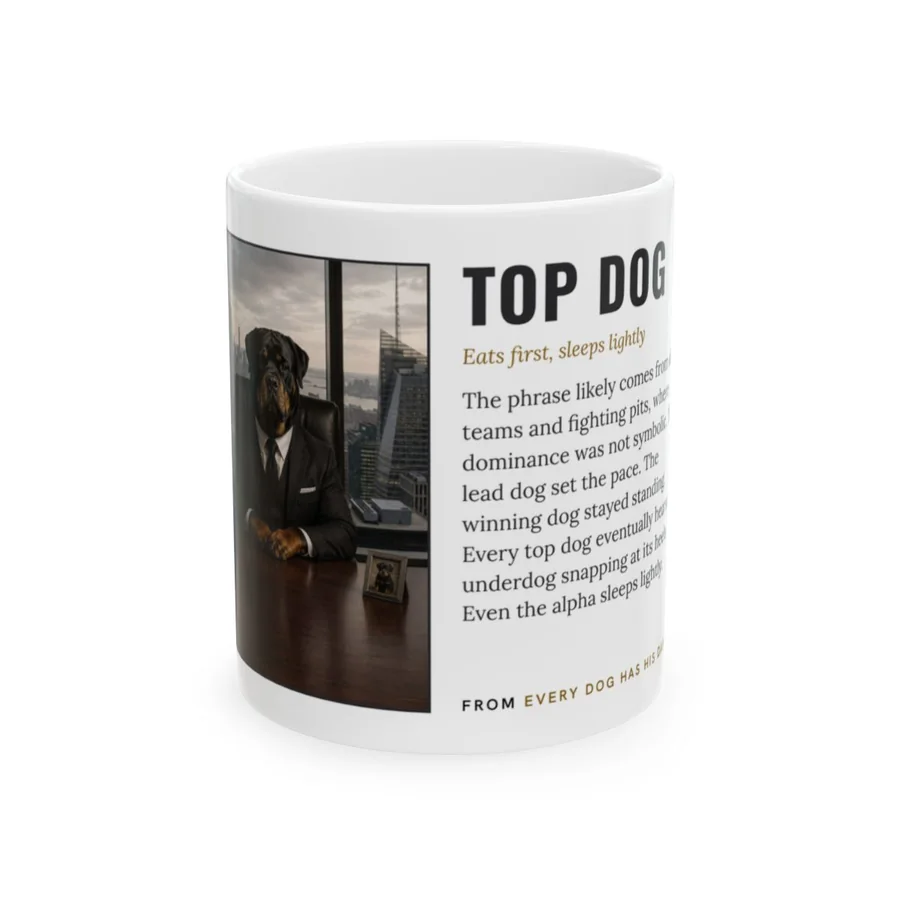
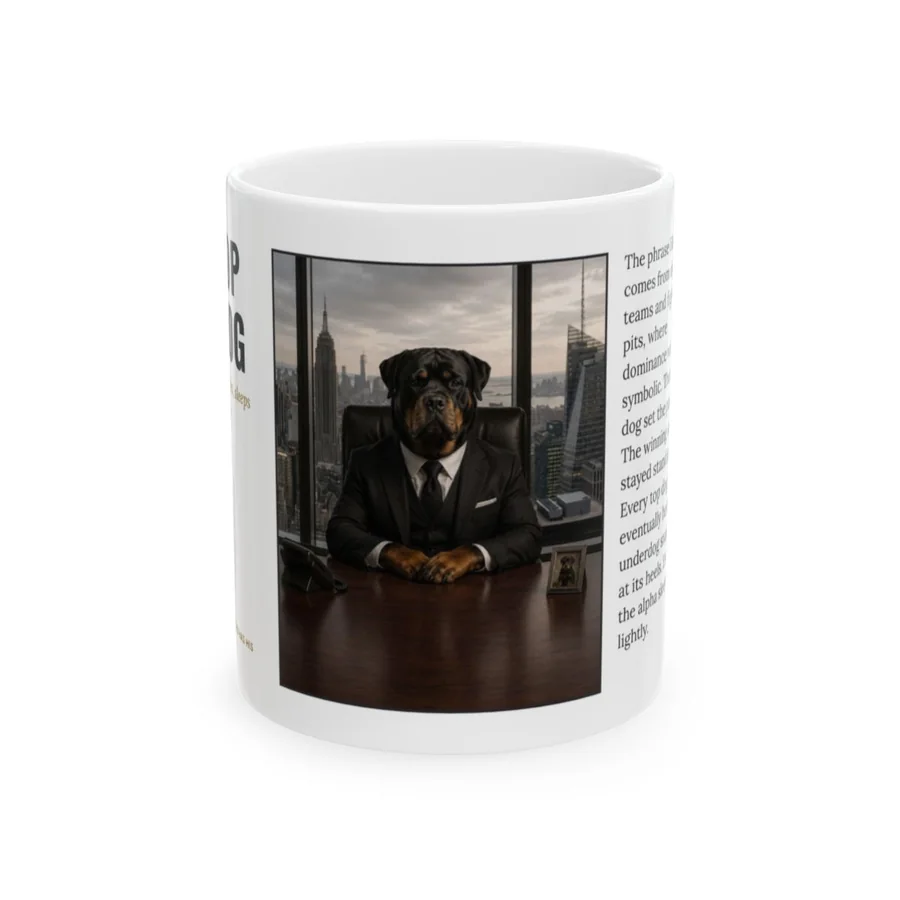
Use new Printify mug mockups; add flat wrap image on idiom pages
Claude-Session: https://claude.ai/code/session_01PgduKiTbNW4EBhNdA6zBJF

Changed region(s): [[0.2489, 0.2489, 0.7467, 0.8089]]

diff --git a/site/i/crazy-cat-lady/index.html b/site/i/crazy-cat-lady/index.html
@@ -66,6 +66,6 @@ h2{font:800 clamp(24px,4vw,32px)/1.1 Spectral,serif;margin:44px 0 14px}
 <p class="note" style="font:14px/1.5 Hanken,sans-serif;color:var(--soft)">More books</p><div class="mini"><a href="/books/every-dog-has-his-day/"><img src="/books/every-dog-has-his-day/cover.webp" alt="Every Dog Has His Day" loading="lazy"><span>Every Dog Has His Day</span></a><a href="/books/dog-breeds/"><img src="/books/dog-breeds/cover.webp" alt="Dog Breeds" loading="lazy"><span>Dog Breeds</span></a><a href="/books/cat-breeds/"><img src="/books/cat-breeds/cover.webp" alt="Cat Breeds" loading="lazy"><span>Cat Breeds</span></a></div><div class="cta"><a class="btn" href="/books/">All books</a></div>
 <h2 id="merch">Merch with this design</h2>
 <div class="mgrid"><a class="mc" href="https://rainingcad.etsy.com/?search_query=Crazy+Cat+Lady+shirt" target="_blank" rel="noopener"><img src="/i/img/crazy-cat-lady-tee-m.webp" width="900" height="900" alt="Crazy Cat Lady tee" loading="lazy"><b>Crazy Cat Lady T-shirt</b><span>Shop on Etsy</span></a><a class="mc" href="https://rainingcad.etsy.com/?search_query=Crazy+Cat+Lady+mug" target="_blank" rel="noopener"><img src="/i/img/crazy-cat-lady-mug-m.webp" width="900" height="900" alt="Crazy Cat Lady mug" loading="lazy"><b>Crazy Cat Lady Mug</b><span>11 oz or 15 oz &middot; Shop on Etsy</span></a></div>
-<p class="note" style="font:14px/1.5 Hanken,sans-serif;color:var(--soft)">More from the shop</p><div class="chips"><a href="/merch/t-shirts/">T-shirts</a><a href="/merch/mugs/">Mugs</a><a href="/merch/dogs/">Dogs</a><a href="/merch/">All merch</a></div>
+<p class="note" style="font:14px/1.5 Hanken,sans-serif;color:var(--soft)">The full wrap of the mug, flat: art, title, story and QR code.</p><img src="/i/img/crazy-cat-lady-wrap.webp" alt="Crazy Cat Lady mug, full wrap design laid flat" style="width:100%;height:auto;display:block;border:1px solid var(--line);background:#fff;margin:6px 0 18px" loading="lazy"><p class="note" style="font:14px/1.5 Hanken,sans-serif;color:var(--soft)">More from the shop</p><div class="chips"><a href="/merch/t-shirts/">T-shirts</a><a href="/merch/mugs/">Mugs</a><a href="/merch/dogs/">Dogs</a><a href="/merch/">All merch</a></div>
 <div class="foot">&copy; Richard J. Koret. Raining Cats &amp; Dogs. <a href="/">rainingcad.com</a></div>
 </div></body></html>

diff --git a/site/i/top-dog/index.html b/site/i/top-dog/index.html
@@ -66,6 +66,6 @@ h2{font:800 clamp(24px,4vw,32px)/1.1 Spectral,serif;margin:44px 0 14px}
 <p class="note" style="font:14px/1.5 Hanken,sans-serif;color:var(--soft)">More books</p><div class="mini"><a href="/books/the-cats-pajamas/"><img src="/books/the-cats-pajamas/cover.webp" alt="The Cat&#x27;s Pajamas" loading="lazy"><span>The Cat&#x27;s Pajamas</span></a><a href="/books/dog-breeds/"><img src="/books/dog-breeds/cover.webp" alt="Dog Breeds" loading="lazy"><span>Dog Breeds</span></a><a href="/books/cat-breeds/"><img src="/books/cat-breeds/cover.webp" alt="Cat Breeds" loading="lazy"><span>Cat Breeds</span></a></div><div class="cta"><a class="btn" href="/books/">All books</a></div>
 <h2 id="merch">Merch with this design</h2>
 <div class="mgrid"><a class="mc" href="https://rainingcad.etsy.com/?search_query=Top+Dog+shirt" target="_blank" rel="noopener"><img src="/i/img/top-dog-tee-m.webp" width="900" height="900" alt="Top Dog tee" loading="lazy"><b>Top Dog T-shirt</b><span>Shop on Etsy</span></a><a class="mc" href="https://rainingcad.etsy.com/?search_query=Top+Dog+mug" target="_blank" rel="noopener"><img src="/i/img/top-dog-mug-m.webp" width="900" height="900" alt="Top Dog mug" loading="lazy"><b>Top Dog Mug</b><span>11 oz or 15 oz &middot; Shop on Etsy</span></a></div>
-<p class="note" style="font:14px/1.5 Hanken,sans-serif;color:var(--soft)">More from the shop</p><div class="chips"><a href="/merch/t-shirts/">T-shirts</a><a href="/merch/mugs/">Mugs</a><a href="/merch/dogs/">Dogs</a><a href="/merch/">All merch</a></div>
+<p class="note" style="font:14px/1.5 Hanken,sans-serif;color:var(--soft)">The full wrap of the mug, flat: art, title, story and QR code.</p><img src="/i/img/top-dog-wrap.webp" alt="Top Dog mug, full wrap design laid flat" style="width:100%;height:auto;display:block;border:1px solid var(--line);background:#fff;margin:6px 0 18px" loading="lazy"><p class="note" style="font:14px/1.5 Hanken,sans-serif;color:var(--soft)">More from the shop</p><div class="chips"><a href="/merch/t-shirts/">T-shirts</a><a href="/merch/mugs/">Mugs</a><a href="/merch/dogs/">Dogs</a><a href="/merch/">All merch</a></div>
 <div class="foot">&copy; Richard J. Koret. Raining Cats &amp; Dogs. <a href="/">rainingcad.com</a></div>
 </div></body></html>
